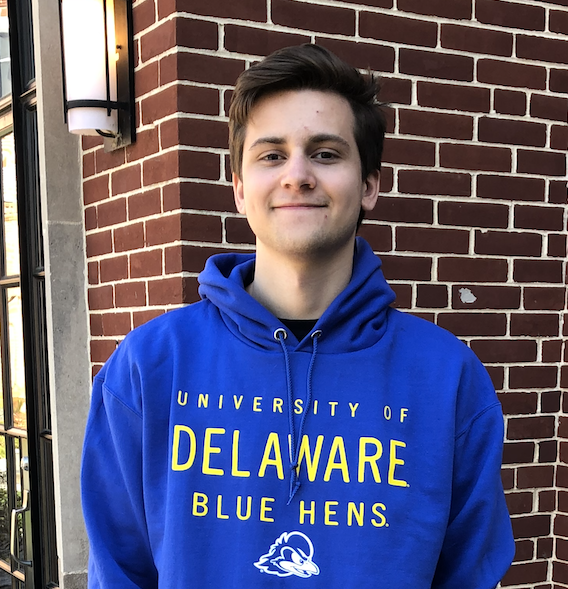
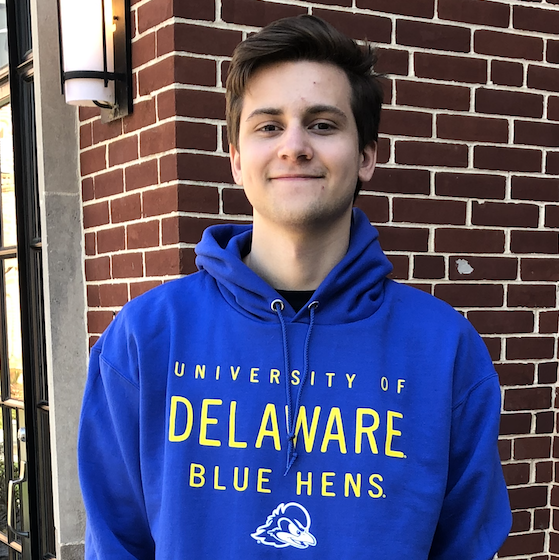
more styling changes

diff --git a/aboutme.html b/aboutme.html
@@ -2,11 +2,15 @@
 <html>
     <title>About Me</title>
     <head>
+        <link rel="preconnect" href="https://fonts.googleapis.com">
+        <link rel="preconnect" href="https://fonts.gstatic.com" crossorigin>
+        <link href="https://fonts.googleapis.com/css2?family=Roboto:wght@300&display=swap" rel="stylesheet">
+        <link rel="stylesheet" href="css/styles.css">
         <!--This page should contain some content at your discretion that introduces you to me, your TA, and your classmates. You might write something about yourself, 
             or some other topic that interests you (e.g., movies, books, music, sports). Don't sweat this too much; it is just some "content" to practice writing HTML 
             and to help me, your TA, and your classmates get to know you better.-->
     </head>
-    <body>
+    <body style="font-family: 'Roboto', sans-serif;">
         <u>Introduction</u>
         <hr>
         <p>Hey, I'm Tim Stumper and I am a Junior Computer Science(BS) student at the University of Delaware. I'm from Simsbury, Connecticut if anyone here knows where that is. My

diff --git a/index.html b/index.html
@@ -14,14 +14,15 @@
       <h1 class="name">Tim</h1>
       <!--Timothy Stumper, CISC474-010, Personal Web Page 1, tjstumpy@udel.edu-->
       <h2 class="fullname">Timothy Stumper</h2>
+      <hr>
       <div>
         <div class="reasons">
           <a href="https://mattm401.github.io/">Course Website</a>
           <p>Aspects of web development I am most interested in:</p>
           <ul style="list-style: none;">
             <li>APIs and databases</li>
+            <li>User Interactivity</li>
             <li>How to make a clean, user-friendly UI</li>
-            <li>Implementing ways for the user to interact with the website</li>
             <li>What kind of security measures need to be made to keep a website safe for users</li>
           </ul>
           <a href="aboutme.html">About Me</a>

diff --git a/css/styles.css b/css/styles.css
@@ -4,26 +4,39 @@ body{
 }
 
 img{
-    width: 10%;
-    height: auto;
-    padding-top: 3em;
+    width: 200px;
+    height: 200px;
+    border-radius: 50%;
 }
 
 a:link, a:visited{
-    
+    background-color: #DA7B93;
+    color: white;
+    text-decoration: none;
+    padding: 10px 10px;
+    border-radius: 15px;
+}
+
+a:hover, a:active{
+    background-color: #2E151B;
+
 }
 
 .center{
     text-align: center;
 }
 
+.name{
+    padding: 0em;
+    margin-top: 0px;
+    margin-bottom: -12px;
+}
 .fullname{
     font-size: large;
 }
 
 .studentnav{
     text-align: center;
-
 }
 
 .reasons{
